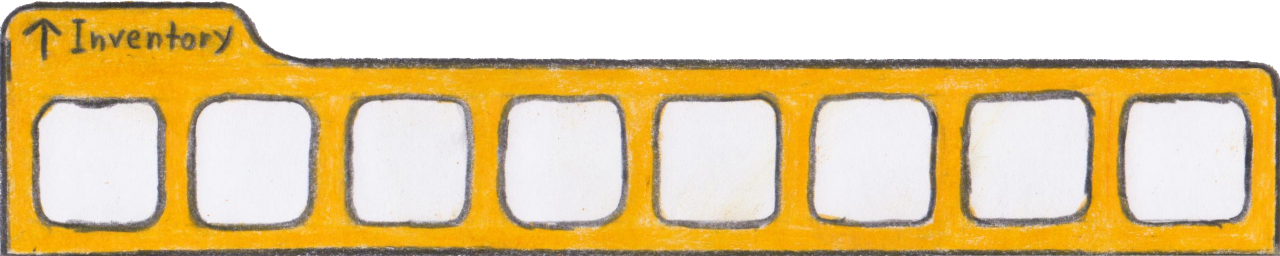
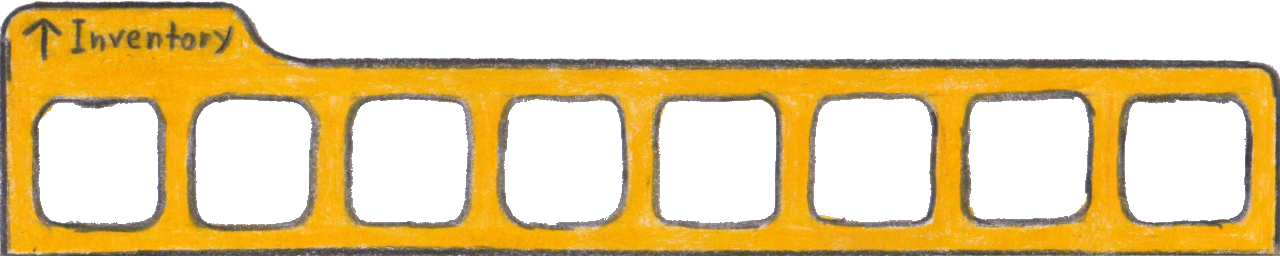
0.256 Itemklasse eingeführt, Inventar funktionsfähig, chips im livingroom platziert

diff --git a/items.js b/items.js
@@ -3,9 +3,6 @@ function setupItems(){
 	item.bar = {};
 	item.bar.extended = false;
 	item.bar.slot = [];
-	for (i = 0; i<9; i++){
-		item.bar.slot[i] = "empty";
-	}
 	item.bar.act = function(){
 	console.log(item.bar.extended);
 		if (triggerReact(key.i && !item.bar.extended)) item.bar.extended = true;
@@ -14,11 +11,22 @@ function setupItems(){
 		if (mode === "adventure"){
 			if (!item.bar.extended) {
 				Game.ctx.drawImage(image.inventory,0,660);
+				if (cursor.x.between(10,250) && cursor.y.between(665,720)){
+					Game.ctx.drawImage(image.inventory_arrow,15,665);
+					if (click) item.bar.extended = true;
+				}
 			}
 			if (item.bar.extended){
+				Game.ctx.drawImage(image.inventory_blank,0,550);
+				for (i = 0; i<8; i++){
+					if (cursor.x.between(40+155*i,160+155*i) && cursor.y.between(550,710)) Game.ctx.drawImage(image.inventory_selected,40+155*i,550);
+					if (item.bar.slot[i] !== undefined) Game.ctx.drawImage(item.bar.slot[i].skin,40+110*i,575, 120, 120);
+					if (item.bar.slot[i] !== undefined && cursor.x.between(40+155*i,160+155*i) && cursor.y.between(550,710)) Game.ctx.fillText(item.bar.slot[i].declaration, cursor.x, cursor.y - 20);
+				}
 				Game.ctx.drawImage(image.inventory,0,465);
-				for (i = 0; i<9; i++){
-				if (item.bar.slot[i] !== "empty") Game.ctx.drawImage(item.bar.slot[i].skin,40+110*i,575); ;
+				if (cursor.x.between(10,250) && cursor.y.between(470,535)){
+					Game.ctx.drawImage(image.inventory_arrow,15,470);
+					if (click) item.bar.extended = false;
 				}
 			}
 		}
@@ -34,11 +42,11 @@ function setupItems(){
 			if (this.pickedup[scene.at] === undefined) {
 				Game.ctx.drawImage(this.skin, x, y);
 				if (player1.x.between(x + 50*scale, x - 50*scale)) {
-					Game.ctx.fillText("Pick up" + this.declaration, x, groundlevel);
+					Game.ctx.fillText("Pick up " + this.declaration +"(E)", x, groundlevel);
 					if (key.e) {
 						audio.cloth.play();
-						this.quantity = 1;
-						item.bar.slot[item.bar.slot.length()] = this;
+						this.quantity += 1;
+						item.bar.slot[item.bar.slot.length] = this;
 						this.pickedup[scene.at] = true;
 					}
 				}
@@ -46,4 +54,5 @@ function setupItems(){
 		}
 	item[declaration] = neuesItem;
 	}
+	createItem("chips", "chips");
 }

diff --git a/main.js b/main.js
@@ -58,7 +58,7 @@ function draw() {
 	Game.ctx.drawImage(background, 0, 0);
 	scene.act();
 	physik();
-	if (mode !== "interface") Game.ctx.fillText("Version 0.255", 1140, 710);
+	if (mode !== "interface") Game.ctx.fillText("Version 0.256", 1140, 710);
 	Game.ctx.drawImage(player1.skin, player1.x, player1.y, 220 * scale, 440 * scale);
 	item.bar.act();
 	Game.ctx.drawImage(image.cursor, cursor.x - 8, cursor.y - 36);

diff --git a/ress/resources.js b/ress/resources.js
@@ -101,5 +101,9 @@ var resources = {
 	"scp1730l": "ress/scp173/0l.png",
 	"scp1730r": "ress/scp173/0r.png",
 	"home_basement": "ress/home_basement.png",
-	"inventory" : "ress/inventory.png"
+	"inventory" : "ress/inventory.png",
+	"inventory_blank" : "ress/inventory_blank.png",
+	"inventory_arrow" : "ress/inventory_arrow.png",
+	"inventory_selected" : "ress/inventory_selected.png",
+	"chips" : "ress/chips.png"
 }

diff --git a/scenes.js b/scenes.js
@@ -341,6 +341,7 @@ createScene({ name: "livingroom",
 		gamemode: "adventure"});
 scene.livingroom.events = function() {
 	door(700,"home_downstairs2",750,"Leave");
+	item.chips.place(450,560);
 }
 
 createScene({ name: "home_basement",
